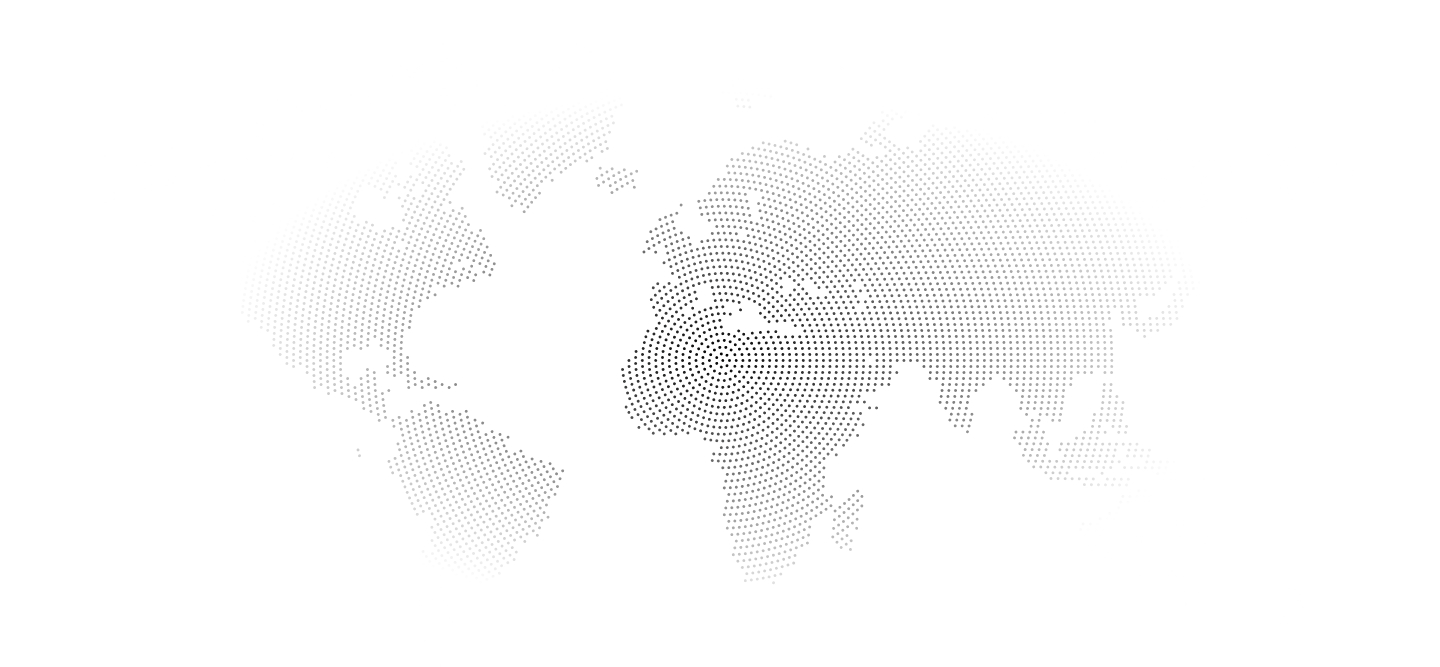
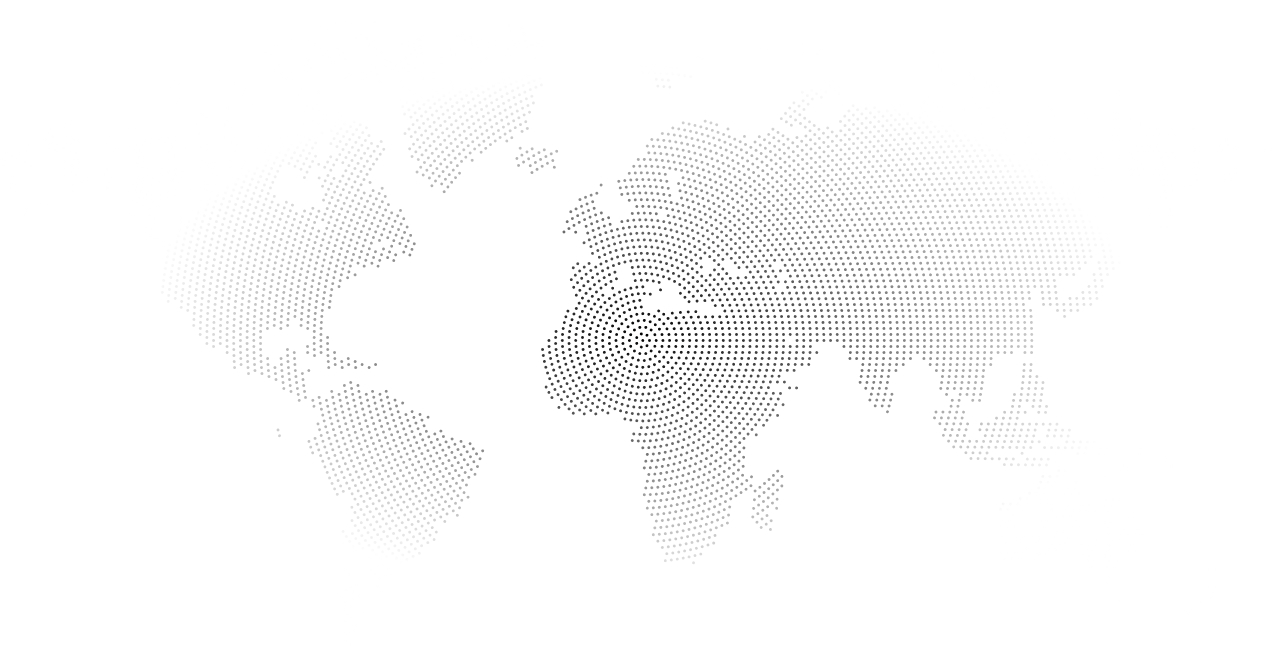
update map location

Changed region(s): [[0.4062, 0.1799, 0.8125, 0.8396], [0.1562, 0.2699, 0.4062, 0.8096], [0.3125, 0.1799, 0.4375, 0.2999]]

diff --git a/about-us.html b/about-us.html
@@ -333,35 +333,59 @@
                     <img src="./assets/images/map-bg.jpg" alt="">
                     <div class="pointer one">
                         <div class="tip">
-                            <span class="flag fi-eg"></span>
-                            <span class="name">Egypt</span>
+                            <span class="flag fi-om"></span>
+                            <span class="name">Oman</span>
                         </div>
                     </div>
                     <div class="pointer two">
-                        <div class="tip">
-                            <span class="flag fi-sd"></span>
-                            <span class="name">Sudan</span>
-                        </div>
-                    </div>
-                    <div class="pointer three">
-                        <div class="tip">
-                            <span class="flag fi-ly"></span>
-                            <span class="name">Libya</span>
-                        </div>
-                    </div>
-                    <div class="pointer four">
                         <div class="tip">
                             <span class="flag fi-sa"></span>
                             <span class="name">Saudi Arabia</span>
                         </div>
                     </div>
-                    <div class="pointer five">
+                    <div class="pointer three">
                         <div class="tip">
-                            <span class="flag fi-jo"></span>
-                            <span class="name">Jordan</span>
+                            <span class="flag fi-sn"></span>
+                            <span class="name">Senegal</span>
                         </div>
                     </div>
-                </figure>
+                    <div class="pointer four">
+                        <div class="tip">
+                            <span class="flag fi-ci"></span>
+                            <span class="name">Ivory Coast</span>
+                        </div>
+                    </div>
+                    <div class="pointer five">
+                        <div class="tip">
+                            <span class="flag fi-ma"></span>
+                            <span class="name">Morocco</span>
+                        </div>
+                    </div>
+                    <div class="pointer six">
+                        <div class="tip">
+                            <span class="flag fi-iq"></span>
+                            <span class="name">Iraq</span>
+                        </div>
+                    </div>
+                    <div class="pointer seven">
+                        <div class="tip">
+                            <span class="flag fi-bh"></span>
+                            <span class="name">Bahrain</span>
+                        </div>
+                    </div>
+                    <div class="pointer eight">
+                        <div class="tip">
+                            <span class="flag fi-kw"></span>
+                            <span class="name">Kuwait</span>
+                        </div>
+                    </div>
+                    <div class="pointer nine">
+                        <div class="tip">
+                            <span class="flag fi-ae"></span>
+                            <span class="name">UAE</span>
+                        </div>
+                    </div>
+                </figure>                
             </div>
         </section>
 

diff --git a/assets/css/main.css b/assets/css/main.css
@@ -856,28 +856,45 @@ nav.nav__menu .nav__list li ul.mega__menu li:hover>a>.icon {
 }
 
 .map_pointers .pointer.one {
-    left: 46%;
-    top: 40%;
+    left: 63%;
+    top: 51%;
 }
-
 .map_pointers .pointer.two {
-    top: 64%;
-    left: 47%;
+    left: 59%;
+    top: 50%;
 }
 
 .map_pointers .pointer.three {
-    left: 56%;
+    left: 43%;
     top: 55%;
 }
 
 .map_pointers .pointer.four {
-    left: 62%;
-    top: 52%;
+    left: 47%;
+    top: 60%;
 }
 
 .map_pointers .pointer.five {
-    left: 75%;
-    top: 51%;
+    left: 45%;
+    top: 45%;
+}
+
+.map_pointers .pointer.six {
+    left: 59%;
+    top: 43%;
+}
+
+.map_pointers .pointer.seven {
+    left: 60.2%;
+    top: 48%;
+}
+.map_pointers .pointer.eight {
+    left: 60.6%;
+    top: 45%;
+}
+.map_pointers .pointer.nine {
+    left: 62%;
+    top: 48%;
 }
 
 .work__icon_info {
